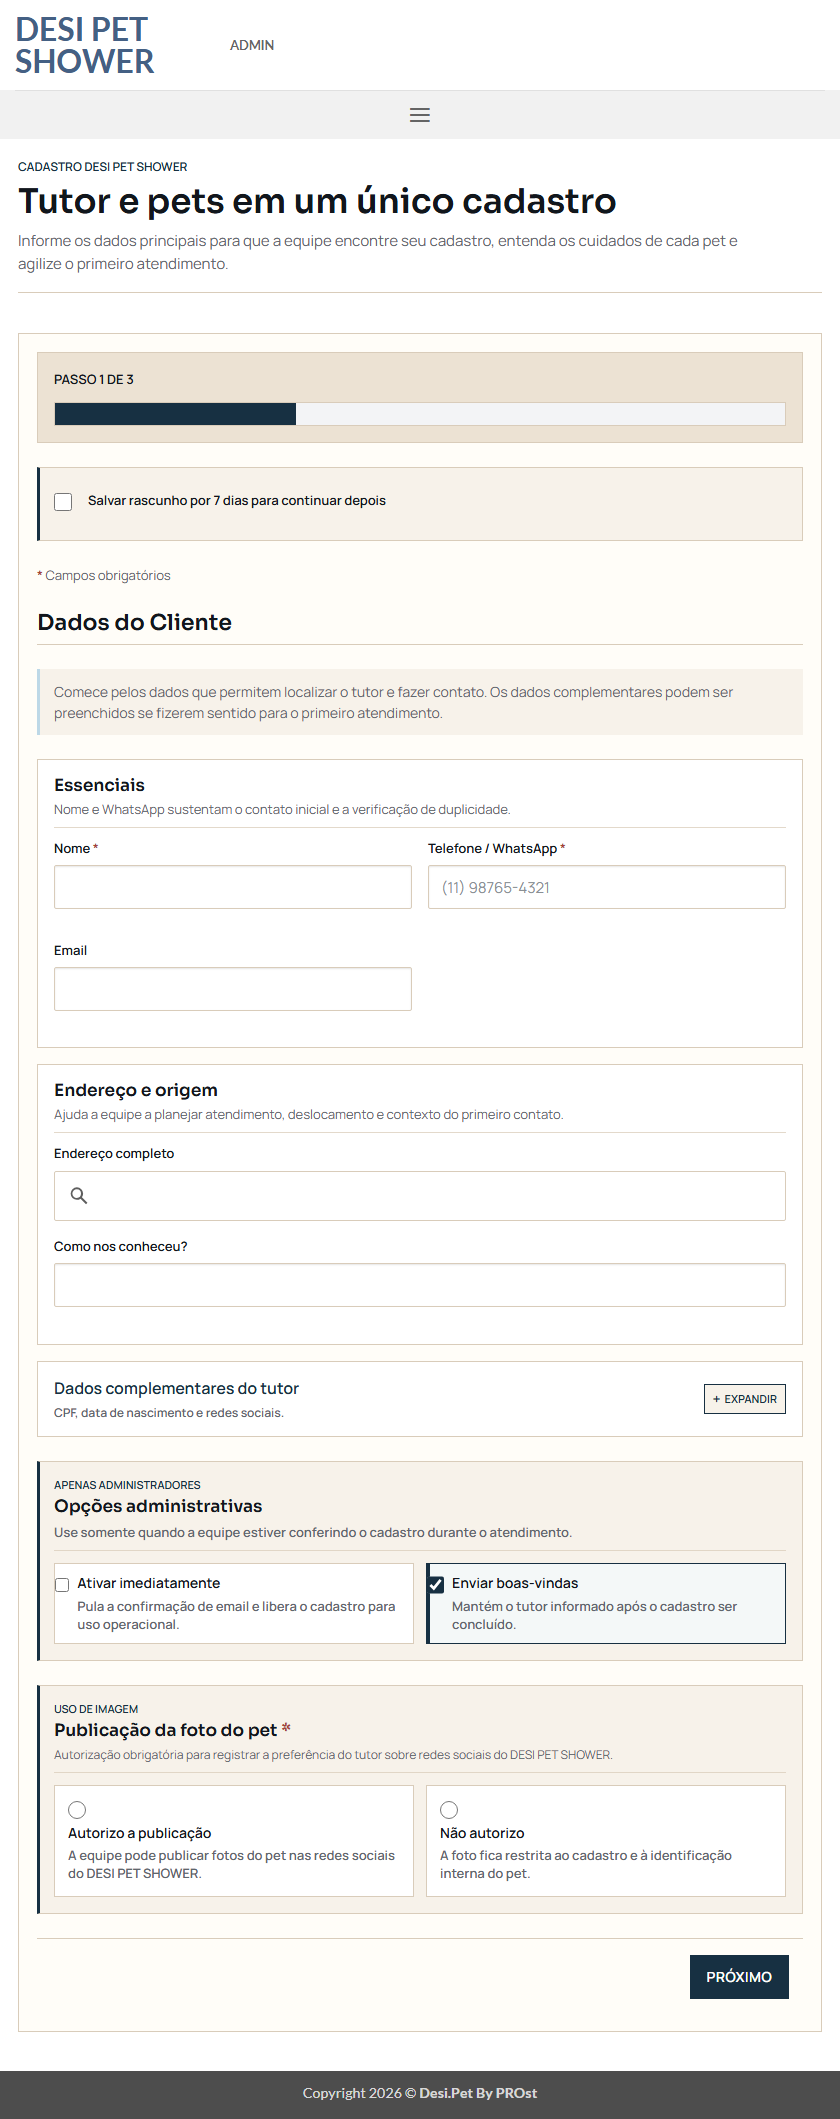
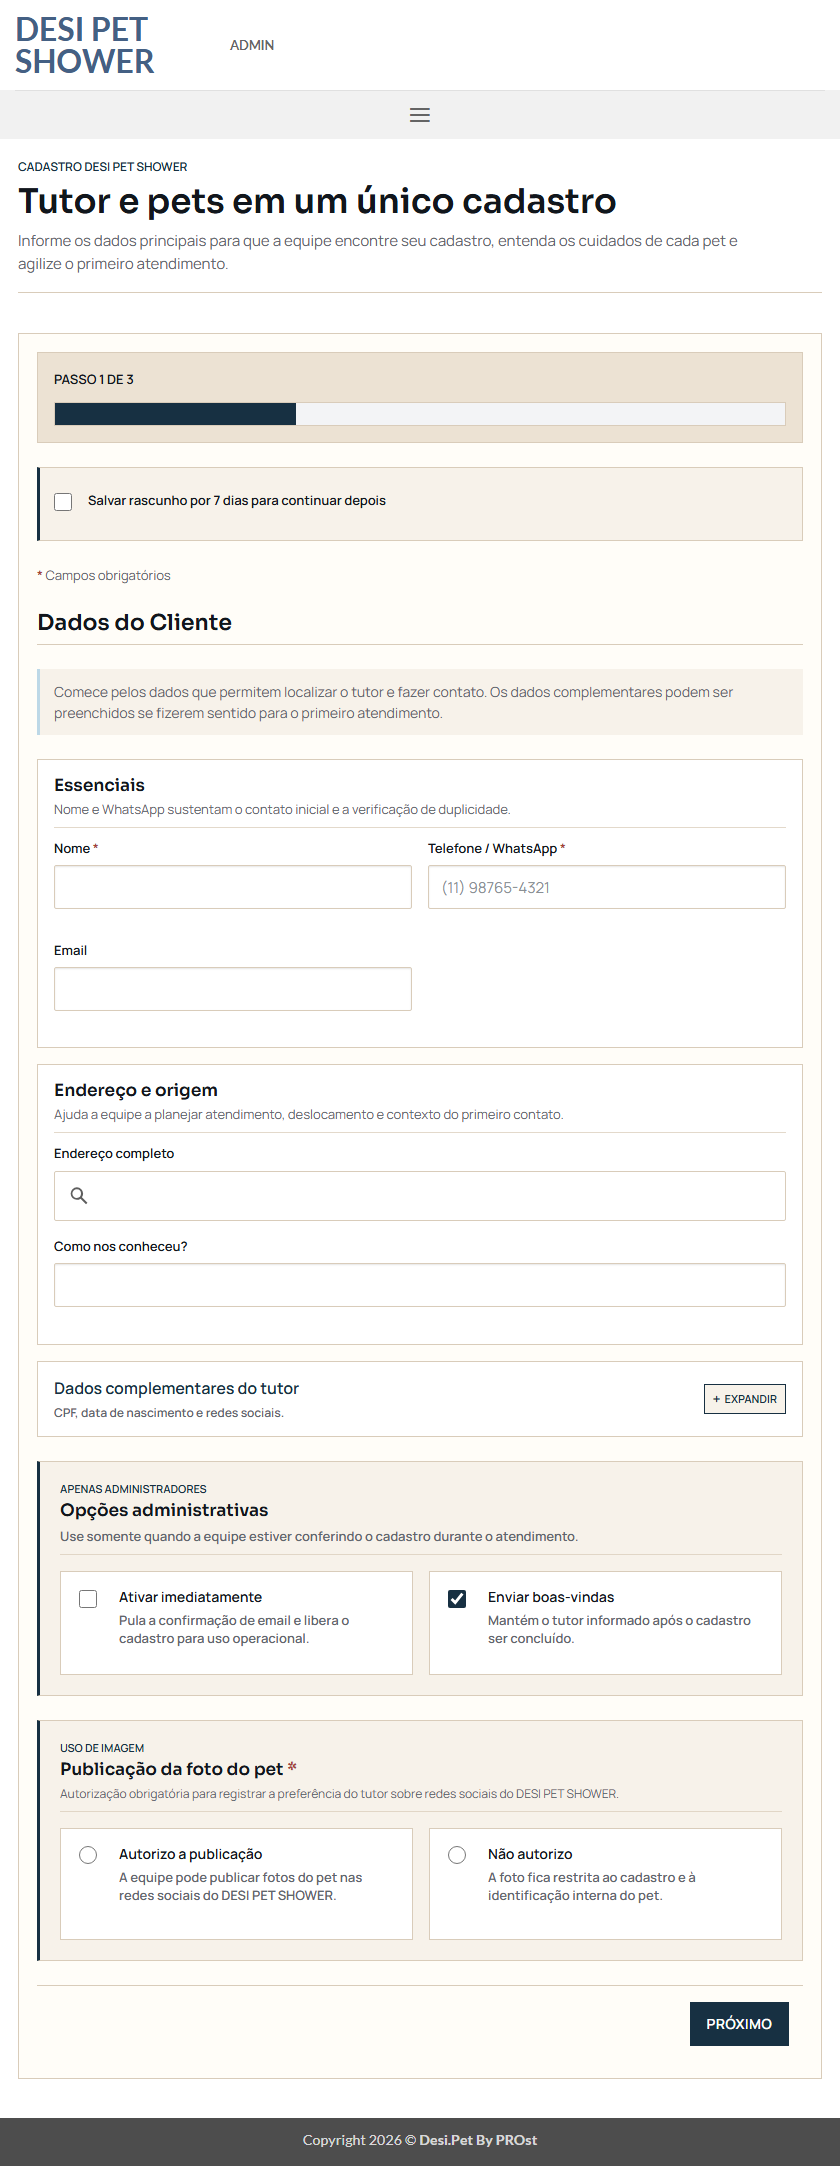
Corrigir controles dos cards do Cadastro

diff --git a/plugins/desi-pet-shower-registration/assets/css/registration-addon.css b/plugins/desi-pet-shower-registration/assets/css/registration-addon.css
@@ -508,10 +508,10 @@
 .dps-photo-auth-choice {
     grid-column: 1 / -1;
     display: grid;
-    gap: var(--dps-reg-gap-md);
+    gap: var(--dps-reg-gap-lg);
     min-width: 0;
     margin: 0;
-    padding: 16px 16px 16px 14px;
+    padding: 20px;
     border: 1px solid var(--dps-reg-line);
     border-left: 3px solid var(--dps-reg-petrol);
     border-radius: 0;
@@ -550,19 +550,19 @@
 .dps-photo-auth-options {
     display: grid;
     grid-template-columns: repeat(2, minmax(0, 1fr));
-    gap: var(--dps-reg-gap-md);
+    gap: var(--dps-reg-gap-lg);
     align-items: stretch;
 }
 
-.dps-photo-auth-option {
+.dps-registration-form label.dps-photo-auth-option {
     display: grid;
-    grid-template-columns: 22px minmax(0, 1fr);
-    gap: var(--dps-reg-gap-sm);
+    grid-template-columns: 28px minmax(0, 1fr);
+    gap: var(--dps-reg-gap-md);
     align-items: start;
     min-width: 0;
     min-height: 112px;
     margin: 0;
-    padding: 14px 14px 14px 13px;
+    padding: 16px 18px;
     border: 1px solid var(--dps-reg-line);
     border-radius: 0;
     background: #ffffff;
@@ -579,7 +579,6 @@
 .dps-photo-auth-option:has(input:checked) {
     border-color: var(--dps-reg-petrol);
     background: #f4f8f8;
-    box-shadow: inset 3px 0 0 var(--dps-reg-petrol);
 }
 
 .dps-photo-auth-option input[type="radio"] {
@@ -951,8 +950,8 @@
 .dps-admin-options {
     grid-column: 1 / -1;
     display: grid;
-    gap: var(--dps-reg-gap-md);
-    padding: 16px 16px 16px 14px;
+    gap: var(--dps-reg-gap-lg);
+    padding: 20px;
     border-left: 3px solid var(--dps-reg-petrol);
     background: var(--dps-reg-paper);
 }
@@ -986,19 +985,19 @@
 .dps-admin-options__grid {
     display: grid;
     grid-template-columns: repeat(2, minmax(0, 1fr));
-    gap: var(--dps-reg-gap-md);
+    gap: var(--dps-reg-gap-lg);
     align-items: stretch;
 }
 
-.dps-admin-option {
+.dps-registration-form label.dps-admin-option:has(input[type="checkbox"]) {
     display: grid;
-    grid-template-columns: 22px minmax(0, 1fr);
-    gap: var(--dps-reg-gap-sm);
+    grid-template-columns: 28px minmax(0, 1fr);
+    gap: var(--dps-reg-gap-md);
     align-items: start;
     min-width: 0;
     min-height: 104px;
     margin: 0;
-    padding: 14px 14px 14px 13px;
+    padding: 16px 18px;
     border: 1px solid var(--dps-reg-line);
     border-radius: 0;
     background: #ffffff;
@@ -1017,7 +1016,6 @@
 .dps-admin-option:has(input:checked) {
     border-color: var(--dps-reg-petrol);
     background: #f4f8f8;
-    box-shadow: inset 3px 0 0 var(--dps-reg-petrol);
 }
 
 .dps-admin-option input[type="checkbox"] {
@@ -1293,11 +1291,6 @@
         padding: 14px;
     }
 
-    .dps-admin-options,
-    .dps-photo-auth-choice {
-        padding-left: 12px;
-    }
-
     .dps-client-fields,
     .dps-pet-fieldset,
     .dps-field-group__body,
@@ -1372,11 +1365,6 @@
     .dps-modal-body,
     .dps-modal-footer {
         padding: 12px;
-    }
-
-    .dps-admin-options,
-    .dps-photo-auth-choice {
-        padding-left: 10px;
     }
 
     .dps-registration-form h4 {

diff --git a/plugins/desi-pet-shower-registration/desi-pet-shower-registration-addon.php b/plugins/desi-pet-shower-registration/desi-pet-shower-registration-addon.php
@@ -3,7 +3,7 @@
  * Plugin Name:       desi.pet by PRObst – Cadastro Add-on
  * Plugin URI:        https://www.probst.pro
  * Description:       Página pública de cadastro para clientes e pets. Envie o link e deixe o cliente preencher seus dados.
- * Version:           1.3.6
+ * Version:           1.3.7
  * Author:            PRObst
  * Author URI:        https://www.probst.pro
  * Text Domain:       dps-registration-addon
@@ -1018,7 +1018,7 @@ class DPS_Registration_Addon {
         }
 
         $addon_url = plugin_dir_url( __FILE__ );
-        $version   = '1.3.6';
+        $version   = '1.3.7';
 
         $recaptcha_settings = $this->get_recaptcha_settings();
         $should_load_recaptcha = $recaptcha_settings['enabled'] && ! empty( $recaptcha_settings['site_key'] );

diff --git a/docs/screenshots/2026-04-25/SCREENSHOTS_2026-04-25.md b/docs/screenshots/2026-04-25/SCREENSHOTS_2026-04-25.md
@@ -90,6 +90,7 @@ Resumo:
 - opcoes administrativas validadas como painel premium DPS Signature com 2 cards suportados pelo backend: `Ativar imediatamente` e `Enviar boas-vindas`;
 - autorizacao de foto refinada para cabecalho `Uso de imagem` e cards de decisao obrigatorios, mantendo `client_photo_auth` com 2 radios required;
 - margens e bordas dos paineis finais foram revalidadas com `adminPanelAlignedWithOptionalDetails: true` e `photoAuthPanelAlignedWithAdmin: true` em `375`, `600`, `840`, `1200` e `1920`;
+- botoes de selecao dos cards finais foram revalidados como `display: grid`, dentro do card e alinhados em linha com o texto nos cinco breakpoints;
 - validacao em branco passou a bloquear avanco tambem com `Informe se autoriza ou nao autoriza a publicacao da foto do pet.`;
 - runtime publicado confirmou `photoAuthFieldExists: true`, `photoAuthOptions: 2`, `photoAuthRequired: true` e `summaryHasPhotoAuth: true`;
 - campo Telefone/WhatsApp validado sem o texto fixo `Formato: (DDD) numero com 8 ou 9 digitos`; `phoneHintExists: false` nos cinco breakpoints e grid essencial com menor espaco vertical entre linhas;

diff --git a/CHANGELOG.md b/CHANGELOG.md
@@ -107,6 +107,7 @@ Antes de criar uma nova versÃ£o oficial:
 - Transformada a autorização de publicação da foto do pet em escolha obrigatória `Autorizo`/`Não autorizo`, destacada acima do botão Próximo.
 - Redesenhadas as áreas de opções administrativas e autorização de foto do Cadastro com hierarquia, microcopy e cards de decisão no padrão DPS Signature.
 - Refinadas margens, bordas e alinhamentos dos painéis finais do Cadastro para manter recuos consistentes entre desktop e mobile.
+- Corrigido o posicionamento dos checkboxes/radios nos cards finais do Cadastro, evitando herança dos estilos globais de `label`.
 - Adicionado indicador `Expandir`/`Recolher` aos disclosures opcionais do Cadastro para deixar a área expansível explícita.
 - Removida a dica fixa de formato do campo Telefone/WhatsApp e compactado o espaçamento vertical dos campos essenciais.
 - Corrigido contraste do componente Google Places no campo Endereço completo, forçando superfície clara e texto legível no padrão DPS Signature.
